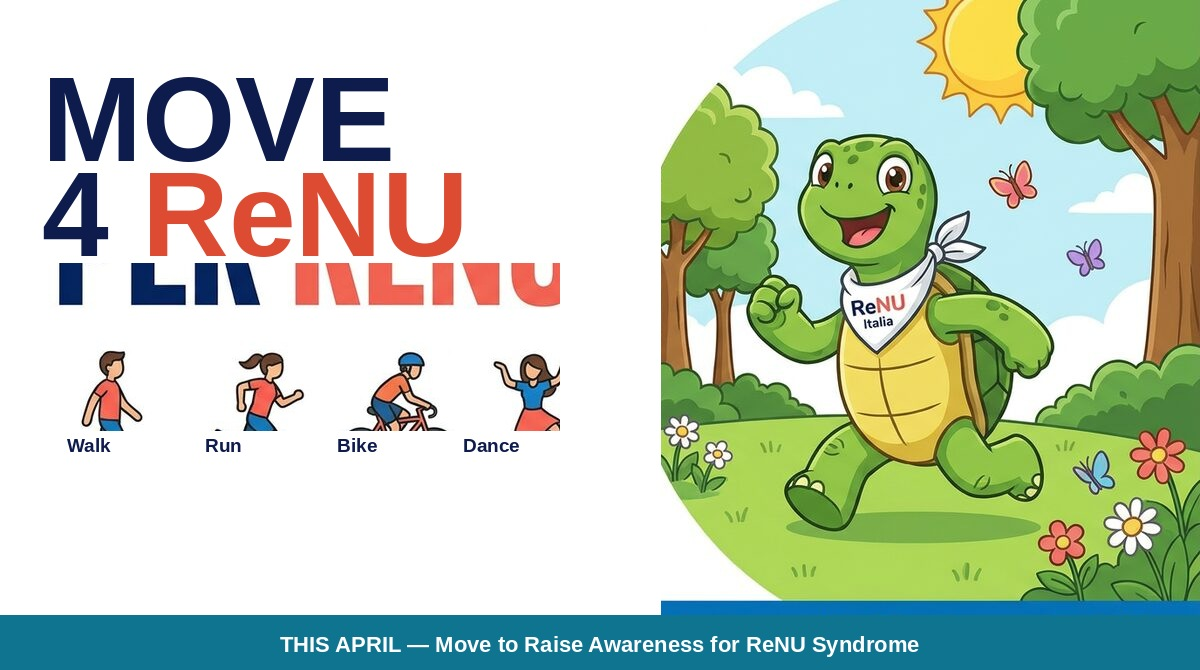
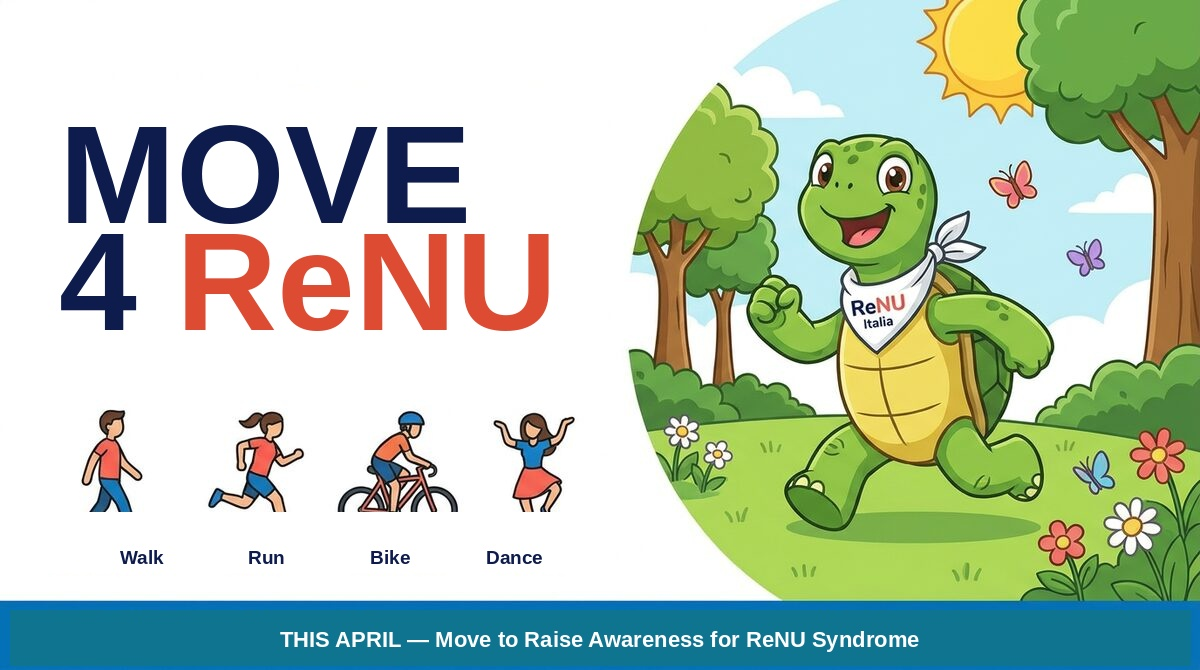
fix: immagini Move4ReNU pixel-perfect + CSS fix (infografica/sostienici/comitato/hero/famiglie) + cleanup gallery duplicati DB

diff --git a/src/index.tsx b/src/index.tsx
@@ -998,7 +998,7 @@ function homePage(t: Record<string, string>): string {
             <i class="fas fa-dna" style="color:#7DD3FC;"></i> ${t.tagline}
           </div>
           <h1 class="text-3xl md:text-5xl font-extrabold mb-6 leading-tight">${t.hero_text.replace(/bambini, ragazzi e famiglie/,'<strong>bambini, ragazzi e famiglie</strong>')}</h1>
-          <p class="text-base md:text-lg text-sky-100 mb-8 leading-relaxed max-w-2xl">${t.hero_desc
+          <p class="text-base md:text-lg text-sky-100 mb-8 leading-relaxed max-w-2xl break-words">${t.hero_desc
             .replace('~250 i casi accertati nel mondo','<strong>~250 i casi accertati nel mondo</strong>')
             .replace('13 posizioni','<a href="https://rarediseasegenomics.org/blog/saturation-genome-editing-of-rnu4-2" target="_blank" class="text-sky-200 hover:underline font-semibold">13 posizioni</a>')
             .replace('supportare le famiglie italiane','<strong>supportare le famiglie italiane</strong>')}</p>
@@ -1094,7 +1094,7 @@ function homePage(t: Record<string, string>): string {
           </div>
         </div>
         <div class="grid grid-cols-2 gap-4">
-          <div class="img-frame overflow-hidden bg-sky-50" style="aspect-ratio:4/3"><img src="/images/famiglie.jpg" alt="Famiglie Sindrome ReNU Italia" class="w-full h-full object-contain" loading="lazy" decoding="async"></div>
+          <div class="img-frame overflow-hidden bg-sky-50" style="aspect-ratio:4/3"><img src="/images/famiglie.jpg" alt="Famiglie Sindrome ReNU Italia" class="w-full h-full object-cover object-center" loading="lazy" decoding="async"></div>
           <div class="img-frame overflow-hidden bg-sky-50" style="aspect-ratio:4/3"><img src="/images/bambini.jpg" alt="Bambini Sindrome ReNU" class="w-full h-full object-contain" loading="lazy" decoding="async"></div>
           <div class="img-frame overflow-hidden" style="aspect-ratio:4/3"><img src="/images/mani.jpg" alt="Comunità Sindrome ReNU Italia" class="w-full h-full object-cover" style="object-position:center" loading="lazy" decoding="async"></div>
           <div class="img-frame overflow-hidden" style="aspect-ratio:4/3"><img src="/images/festa.jpg" alt="Insieme – Sindrome ReNU Italia" class="w-full h-full object-cover" style="object-position:center top" loading="lazy" decoding="async"></div>
@@ -1262,7 +1262,7 @@ function homePage(t: Record<string, string>): string {
             storieData = data;
             g.innerHTML = data.map(function(b, i){
               var imgHtml = b.img_url
-                ? '<img src="' + b.img_url + '" alt="' + b.nome.replace(/"/g,'&quot;') + '" class="w-full h-full object-cover object-top group-hover:scale-105 transition-transform duration-300" loading="lazy" decoding="async">'
+                ? '<img src="' + b.img_url + '" alt="' + b.nome.replace(/"/g,'&quot;') + '" class="w-full h-full object-cover object-center group-hover:scale-105 transition-transform duration-300" loading="lazy" decoding="async">'  
                 : '<div class="w-full h-full bg-sky-100 flex items-center justify-center"><i class="fas fa-user-circle text-6xl text-sky-300"></i></div>';
               return '<div class="card overflow-hidden group cursor-pointer hover:shadow-xl transition-shadow" data-idx="' + i + '">' +
                 '<div class="overflow-hidden" style="aspect-ratio:4/5">' + imgHtml + '</div>' +
@@ -1489,7 +1489,7 @@ function aboutPage(t: Record<string, string>): string {
             ${t.lang==='it'?'Infografica: le caratteristiche cliniche della Sindrome ReNU':t.lang==='en'?'Infographic: clinical features of ReNU Syndrome':t.lang==='fr'?'Infographie : caractéristiques cliniques du Syndrome ReNU':t.lang==='es'?'Infografía: características clínicas del Síndrome ReNU':'Infografik: klinische Merkmale des ReNU-Syndroms'}
           </span>
         </div>
-        <img src="/images/renu_sintomi.jpg" alt="Infografica sintomi Sindrome ReNU" class="w-full object-contain" style="max-height:500px" loading="lazy" decoding="async">
+        <img src="/images/renu_sintomi.jpg" alt="Infografica sintomi Sindrome ReNU" class="w-full object-contain" loading="lazy" decoding="async">
       </div>
 
       <!-- ReNU Syndrome Support Tool -->
@@ -2311,10 +2311,9 @@ function donationsPage(t: Record<string, string>): string {
         </div>
       </div>
       <div class="flex-shrink-0 hidden md:block" style="width:340px">
-        <div class="rounded-2xl overflow-hidden shadow-2xl" style="aspect-ratio:4/3">
+        <div class="rounded-2xl overflow-hidden shadow-2xl">
           <img src="/images/renu_donazione_hero.jpg" alt="Sostienici – Sindrome ReNU Italia"
-               class="w-full h-full object-cover"
-               style="object-position:right center"
+               class="w-full h-auto block"
                loading="lazy" decoding="async">
         </div>
       </div>
@@ -4234,7 +4233,7 @@ function sciencePage(t: Record<string, string>): string {
           <div class="img-frame overflow-hidden rounded-2xl" style="aspect-ratio:16/9">
             <img src="/images/it_comitato.jpg"
                  alt="${isIt?'Comitato Scientifico Sindrome ReNU Italia':'Sindrome ReNU Italia Scientific Committee'}"
-                 class="w-full h-full object-cover" loading="lazy" decoding="async">
+                 class="w-full h-full object-cover" style="object-position:center center" loading="lazy" decoding="async">
           </div>
           <div class="img-frame overflow-hidden rounded-2xl" style="aspect-ratio:16/9">
             <img src="/images/renu_science_committee.jpg"

diff --git a/scripts/create_move4renu_versions.py b/scripts/create_move4renu_versions.py
@@ -1,11 +1,13 @@
 #!/usr/bin/env python3
 """
-Crea le versioni EN, FR, ES, DE di move4renu.jpg
-Strategia FINALE PULITA:
-- Incolla la zona tartaruga (x >= 610) dall'immagine IT
-- Costruisce il pannello sinistro bianco da zero
-- Non tocca la diagonale: la lascia provenire dall'IT (zona 610+)
-- Il testo IT finisce a x=575, quindi x=610 è GARANTITO pulito
+Crea le versioni EN, FR, ES, DE di move4renu_it.jpg
+Strategia PIXEL-PERFECT:
+1. Copia 1:1 l'immagine IT (tutto: tartaruga, icone, sfondo, banner)
+2. Copre con bianco SOLO le zone testo:
+   - Testo principale (MUOVITI / PER RENU): rettangolo (42,90)→(590,330)
+   - Etichette attività (Cammina/Corri/Pedala/Balla): rettangolo (40,515)→(580,575)
+   - Testo banner (APRILE - ...): zona centrale del banner
+3. Ridisegna il testo nuovo nelle stesse posizioni
 """
 from PIL import Image, ImageDraw, ImageFont
 import os
@@ -17,6 +19,14 @@ COLOR_DARK_BLUE   = (13, 27, 77)
 COLOR_RED_ORANGE  = (220, 75, 50)
 COLOR_WHITE       = (255, 255, 255)
 COLOR_BLUE_BANNER = (14, 116, 144)
+
+# Zone testo IT misurate con numpy:
+# - Testo principale: y=96..320, x=59..574
+# - Etichette: y=520..566, x=51..565
+# - Banner inizia a y=605
+TEXT_BOX   = (42, 88,  592, 372)   # (x0,y0,x1,y1) rettangolo bianco su testo principale
+LABEL_BOX  = (38, 512, 582, 572)   # rettangolo bianco su etichette attività
+BANNER_Y   = 605                    # y dove inizia il banner cyan
 
 LANGS = {
     'en': {
@@ -49,127 +59,110 @@ LANGS = {
     },
 }
 
-def load_font(path, size):
+def load_font(size):
     try:
-        return ImageFont.truetype(path, size)
+        return ImageFont.truetype(FONT_BOLD, size)
     except:
         return ImageFont.load_default()
+
+def best_size(draw, text, max_w, sizes):
+    for sz in sizes:
+        f = load_font(sz)
+        bb = draw.textbbox((0, 0), text, font=f)
+        if (bb[2] - bb[0]) <= max_w:
+            return sz, f
+    return sizes[-1], load_font(sizes[-1])
 
 
 def create_version(lang_code, cfg):
     it_path  = os.path.join(IMG_DIR, 'move4renu_it.jpg')
     out_path = os.path.join(IMG_DIR, f'move4renu_{lang_code}.jpg')
 
-    it = Image.open(it_path).convert('RGB')
-    W, H = it.size   # 1200, 670
-
-    # ── 1. Canvas bianco puro ──────────────────────────────────────────────
-    img = Image.new('RGB', (W, H), COLOR_WHITE)
-
-    # ── 2. Incolla zona tartaruga/verde dall'IT ────────────────────────────
-    # Il testo IT finisce a x=575, MA il testo si estende nella zona verde
-    # a partire da x=630 (il testo IT è sovrapposto alla tartaruga).
-    # Usiamo x_cut=625 e poi copriamo con bianco fino a x=660 per
-    # eliminare il testo residuo che si vede nella transizione.
-    x_cut = 625
-    right_zone = it.crop((x_cut, 0, W, H - 55))
-    img.paste(right_zone, (x_cut, 0))
-
-    # ── 2b. Ridisegna pannello sinistro bianco SOLIDO ─────────────────────
-    # Copre la zona sinistra ESTESA fino a 660 per eliminare il testo IT
-    # che sconfina nella zona verde (verificato: pixel scuri a x=630..640+)
-    draw_temp = ImageDraw.Draw(img)
-    draw_temp.rectangle([(0, 0), (660, H - 56)], fill=COLOR_WHITE)
-
-    # ── 3. Banner ─────────────────────────────────────────────────────────
+    # ── 1. Copia 1:1 l'immagine IT ───────────────────────────────────────────
+    img = Image.open(it_path).convert('RGB').copy()
+    W, H = img.size
     draw = ImageDraw.Draw(img)
-    banner_h = 55
-    banner_y = H - banner_h
-    draw.rectangle([(0, banner_y), (W, H)], fill=COLOR_BLUE_BANNER)
 
-    banner_text = cfg['banner']
-    for sz in [22, 19, 17, 15, 13]:
-        f = load_font(FONT_BOLD, sz)
-        bb = draw.textbbox((0,0), banner_text, font=f)
-        if (bb[2]-bb[0]) <= W - 40:
-            f_banner, bb_b = f, bb
-            break
+    # ── 2a. Copre testo principale con bianco ─────────────────────────────────
+    draw.rectangle(TEXT_BOX, fill=COLOR_WHITE)
 
-    tw_b = bb_b[2] - bb_b[0]
-    x_b  = (W - tw_b) // 2
-    y_b  = banner_y + (banner_h - (bb_b[3] - bb_b[1])) // 2
-    draw.text((x_b, y_b), banner_text, font=f_banner, fill=COLOR_WHITE)
+    # ── 2b. Copre etichette attività con bianco ───────────────────────────────
+    draw.rectangle(LABEL_BOX, fill=COLOR_WHITE)
 
-    # ── 4. Testo principale ───────────────────────────────────────────────
+    # ── 2c. Copre testo banner (lascia lo sfondo cyan, ridisegna solo testo) ──
+    # Usiamo un rettangolo un po' più stretto del banner per non toccare i bordi
+    draw.rectangle([(10, BANNER_Y + 5), (W - 10, H - 5)], fill=COLOR_BLUE_BANNER)
+
+    # ── 3. Ridisegna testo principale ────────────────────────────────────────
     line1    = cfg['line1']
     line2_bl = cfg['line2_blue']
     line2_rd = cfg['line2_red']
-    full2    = (line2_bl + ' ' + line2_rd).strip()
+    full2    = (line2_bl + ' ' + line2_rd).strip() if line2_bl else line2_rd
 
-    # Larghezza disponibile per il testo: da margin fino a x_cut con un po' di margine
-    margin  = 42
-    avail_w = x_cut - margin - 30   # ~538px
+    # Larghezza disponibile: dalla margin fino al bordo del box testo
+    margin   = 59   # allineato al margine sinistro dell'IT
+    avail_w  = TEXT_BOX[2] - margin - 10
 
-    # Trova font size ottimale per line1
-    def best_size(text, max_w, sizes):
-        for sz in sizes:
-            f = load_font(FONT_BOLD, sz)
-            bb = draw.textbbox((0,0), text, font=f)
-            if (bb[2]-bb[0]) <= max_w:
-                return sz
-        return sizes[-1]
+    SIZES = [140, 130, 120, 110, 100, 90, 80, 70, 60]
+    fs1, _ = best_size(draw, line1, avail_w, SIZES)
+    fs2, _ = best_size(draw, full2, avail_w, SIZES)
+    fs     = min(fs1, fs2)
+    f_main = load_font(fs)
 
-    SIZES = [120, 110, 100, 90, 80, 70, 60, 50]
-    fs1 = best_size(line1, avail_w, SIZES)
-    fs2 = best_size(full2, avail_w, SIZES)
-    # Usa la stessa dimensione per entrambe le righe (il minore dei due)
-    fs  = min(fs1, fs2)
-    f1 = load_font(FONT_BOLD, fs)
-    f2 = load_font(FONT_BOLD, fs)
+    # Posizione y1: stessa dell'IT (testo inizia a y≈96)
+    y1 = 96
+    draw.text((margin, y1), line1, font=f_main, fill=COLOR_DARK_BLUE)
 
-    y1 = 52
-    draw.text((margin, y1), line1, font=f1, fill=COLOR_DARK_BLUE)
-
-    bb1 = draw.textbbox((0,0), line1, font=f1)
+    bb1 = draw.textbbox((0, 0), line1, font=f_main)
     h1  = bb1[3] - bb1[1]
-    y2  = y1 + h1 + 10
+    y2  = y1 + h1 + 8
 
     # line2: parte blu + "ReNU" rosso
     x_cur = margin
     if line2_bl:
         bl_text = line2_bl + ' '
-        draw.text((x_cur, y2), bl_text, font=f2, fill=COLOR_DARK_BLUE)
-        bb_bl = draw.textbbox((0,0), bl_text, font=f2)
+        draw.text((x_cur, y2), bl_text, font=f_main, fill=COLOR_DARK_BLUE)
+        bb_bl = draw.textbbox((0, 0), bl_text, font=f_main)
         x_cur += bb_bl[2] - bb_bl[0]
-    draw.text((x_cur, y2), line2_rd, font=f2, fill=COLOR_RED_ORANGE)
+    draw.text((x_cur, y2), line2_rd, font=f_main, fill=COLOR_RED_ORANGE)
 
-    bb2 = draw.textbbox((0,0), full2, font=f2)
-    h2  = bb2[3] - bb2[1]
+    # ── 4. Ridisegna etichette attività ──────────────────────────────────────
+    # Nell'IT le 4 etichette sono a y≈546..566, x da 51 a 564
+    # Le icone occupano x=80..575 divise in 4 slot da ~124px ciascuna
+    # Slot centri (misurati): ~140, ~265, ~390, ~510
+    activities = cfg['activities']
+    f_act  = load_font(19)
 
-    # ── 5. Icone (dall'IT, zona garantita x<575) ──────────────────────────
-    # Nell'IT le 4 icone occupano y≈322..488, x=22..560 (verificato: arrivano a x=550)
-    # Tutte stanno prima di x=575 (fine testo) quindi sicure
-    icons_src = it.crop((22, 322, 560, 490))
-    icon_h    = 490 - 322  # 168
-    icon_w    = 560 - 22   # 538
+    # Usiamo gli stessi centri x delle icone IT
+    # Le icone nell'IT sono in 4 colonne uguali su x=80..575 → slot_w=123.75
+    icon_x0   = 80
+    icon_x1   = 576
+    slot_w    = (icon_x1 - icon_x0) / 4
+    label_y   = 546   # y di partenza delle etichette nell'IT
 
-    icons_y = y2 + h2 + 32
-    if icons_y + icon_h < banner_y - 5:
-        img.paste(icons_src, (22, icons_y))
+    for i, act in enumerate(activities):
+        cx  = int(icon_x0 + i * slot_w + slot_w / 2)
+        abb = draw.textbbox((0, 0), act, font=f_act)
+        tw  = abb[2] - abb[0]
+        draw.text((cx - tw // 2, label_y), act, font=f_act, fill=COLOR_DARK_BLUE)
 
-        # Etichette sotto le icone
-        activities = cfg['activities']
-        f_act  = load_font(FONT_BOLD, 19)
-        slot_w = icon_w // 4   # ~121px
-        act_y  = icons_y + icon_h + 3
-        for i, act in enumerate(activities):
-            x_c  = 22 + i * slot_w + slot_w // 2
-            abb  = draw.textbbox((0,0), act, font=f_act)
-            tw_a = abb[2] - abb[0]
-            draw.text((x_c - tw_a // 2, act_y), act, font=f_act, fill=COLOR_DARK_BLUE)
+    # ── 5. Ridisegna testo banner ─────────────────────────────────────────────
+    banner_text = cfg['banner']
+    for sz in [22, 19, 17, 15, 13, 11]:
+        f = load_font(sz)
+        bb = draw.textbbox((0, 0), banner_text, font=f)
+        tw = bb[2] - bb[0]
+        if tw <= W - 60:
+            f_banner = f
+            bh = bb[3] - bb[1]
+            break
 
-    # ── 6. Salva ──────────────────────────────────────────────────────────
-    img.save(out_path, 'JPEG', quality=93)
+    x_b = (W - tw) // 2
+    y_b = BANNER_Y + ((H - BANNER_Y) - bh) // 2
+    draw.text((x_b, y_b), banner_text, font=f_banner, fill=COLOR_WHITE)
+
+    # ── 6. Salva ──────────────────────────────────────────────────────────────
+    img.save(out_path, 'JPEG', quality=95)
     v = Image.open(out_path)
     print(f'  -> {os.path.basename(out_path)} {v.size}')
 
